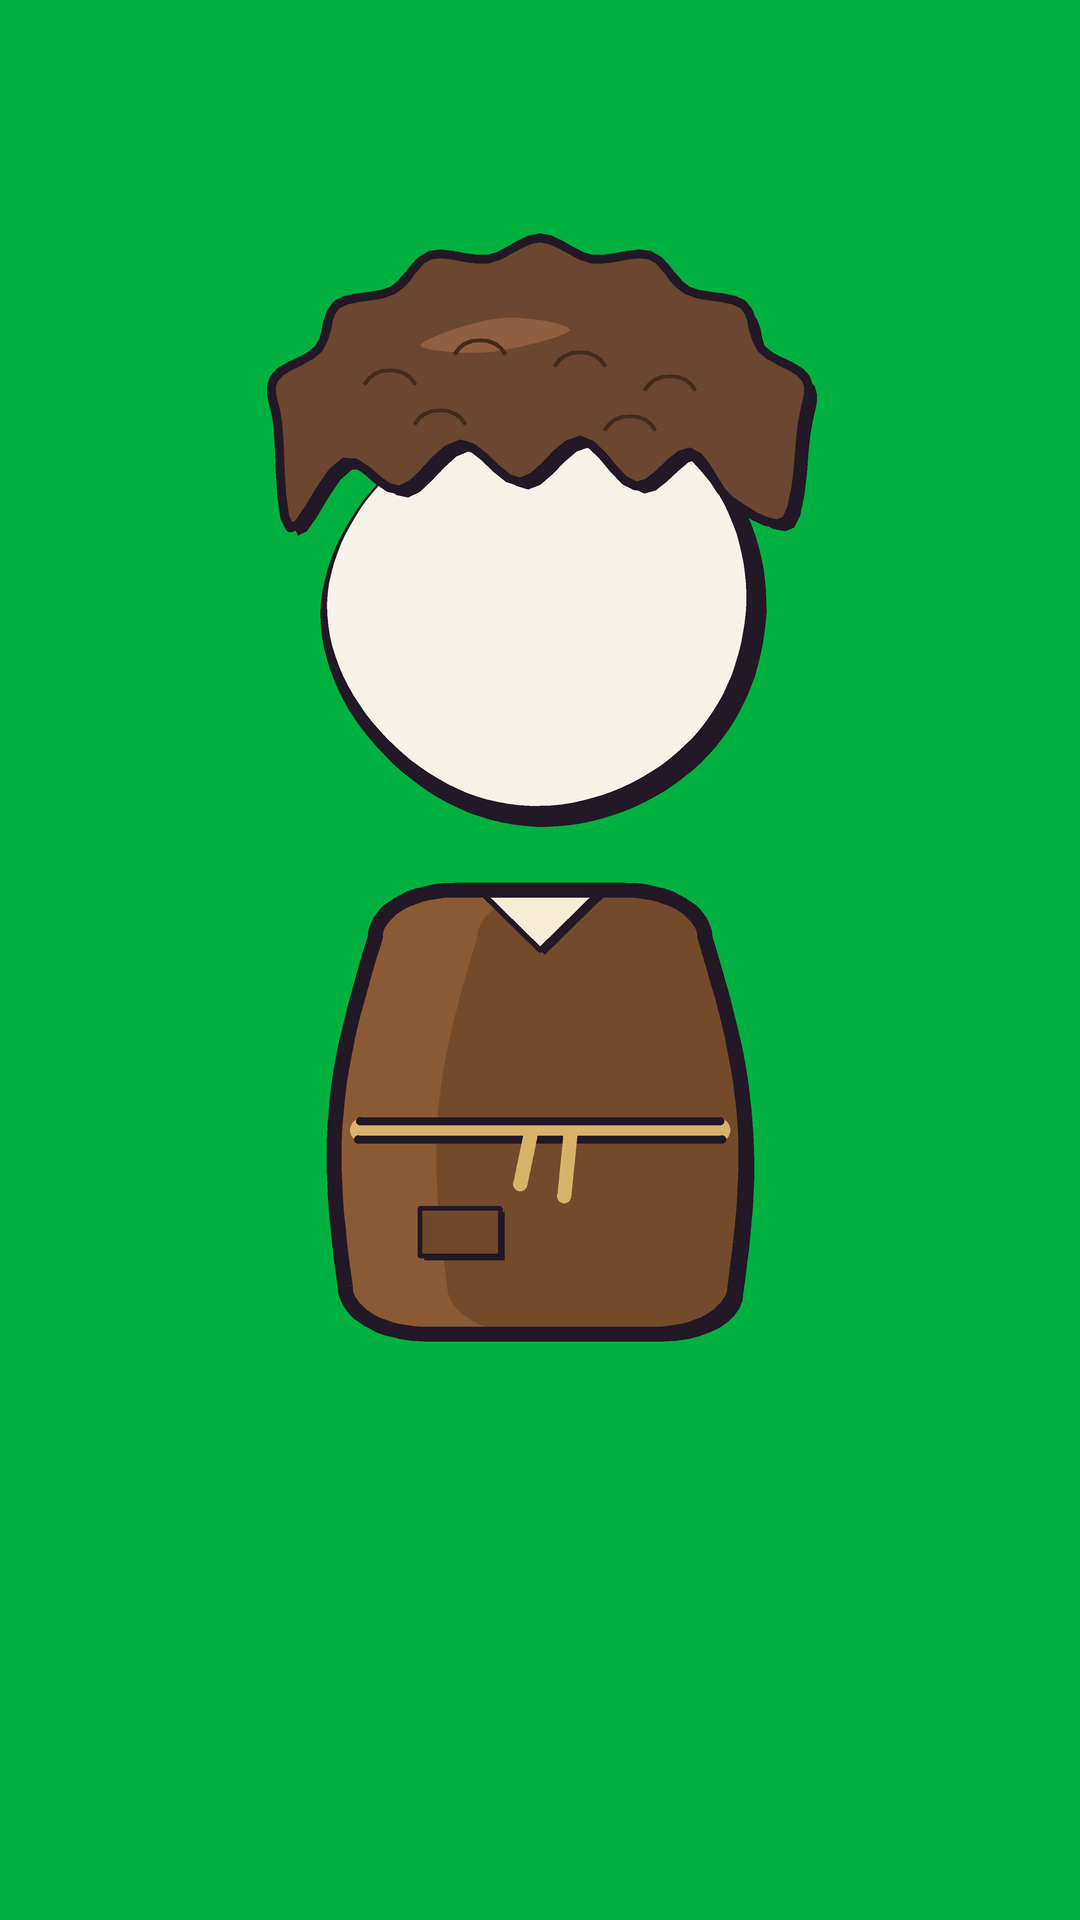
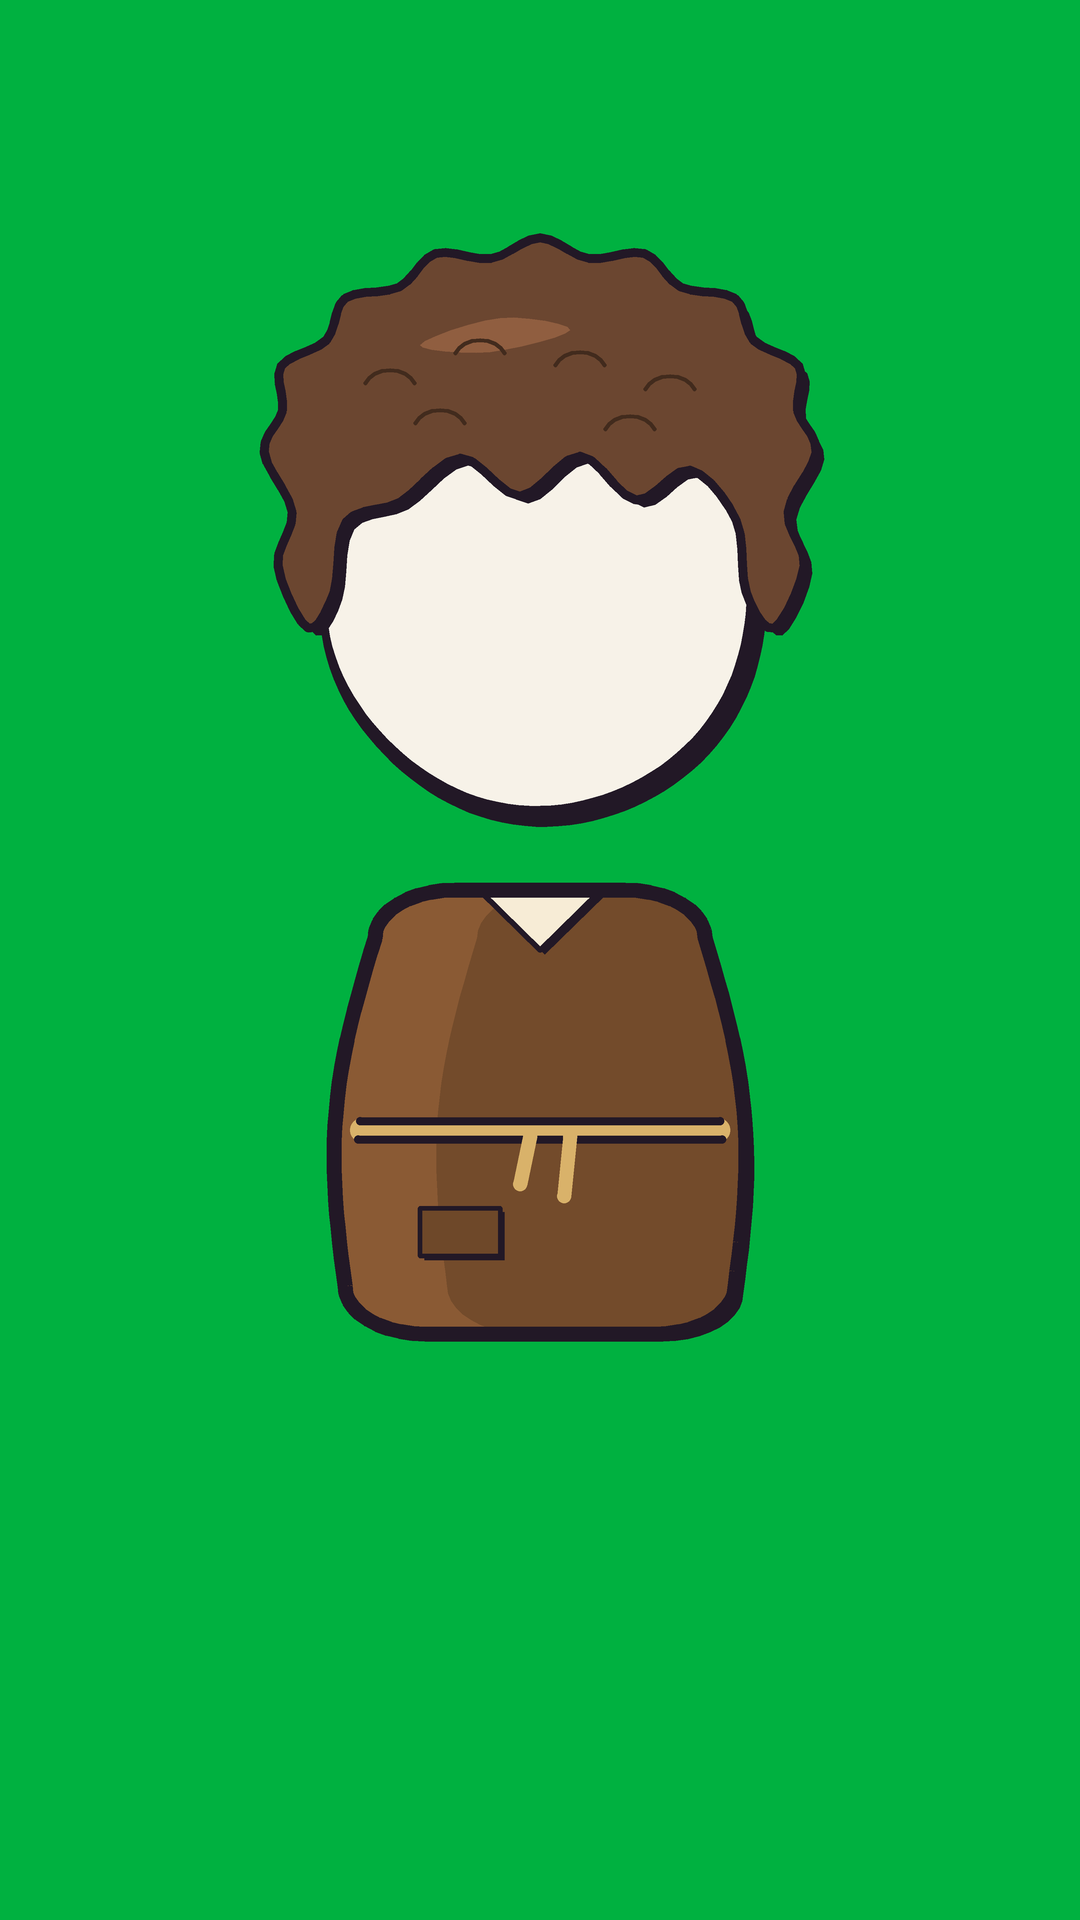
chars C10: curly hair flows down the sides and joins the head (user rule: hair connects to the head)

diff --git a/projects/the-puppet-master/tools/hair_library.py b/projects/the-puppet-master/tools/hair_library.py
@@ -125,9 +125,12 @@ def hair_curly(d, view='F'):
     c = hexc('#6b4630')
     if view == 'B':
         poly(d, cr(_curls(CX, 520, 262, 250, 0, 360, 22, .07)[:-1], 5), c); return
-    top = _curls(CX, 470, 268, 215, 192, 348, 14, .08)                     # bumpy crown from the left temple over to the right temple
-    fringe = [(CX + 246, 520), (CX + 190, 500), (CX + 150, 452), (CX + 96, 486), (CX + 40, 440), (CX - 20, 482), (CX - 80, 444), (CX - 140, 490), (CX - 196, 462), (CX - 250, 528)]
-    poly(d, cr(top + fringe, 5), c)
+    # user rule 2026-11-23: hair flows down the sides and JOINS the head (curly sideburns to the ear line), never a cap sitting on top
+    left = [(CX - 232, 628), (CX - 262, 566), (CX - 248, 512), (CX - 276, 452)]
+    top = _curls(CX, 470, 268, 215, 196, 344, 14, .08)                     # bumpy crown from the left temple over to the right temple
+    right = [(CX + 276, 452), (CX + 248, 512), (CX + 264, 566), (CX + 234, 628)]
+    fringe = [(CX + 206, 592), (CX + 196, 520), (CX + 150, 470), (CX + 96, 500), (CX + 40, 456), (CX - 20, 496), (CX - 80, 458), (CX - 140, 502), (CX - 194, 522), (CX - 206, 592)]
+    poly(d, cr(left + top + right + fringe, 5), c)
     hl(d, [(CX - 120, 345), (CX - 40, 318), (CX + 30, 330), (CX - 50, 352)], c)
     for x, y in [(CX - 150, 390), (CX - 60, 360), (CX + 40, 372), (CX + 130, 396), (CX - 100, 430), (CX + 90, 436)]:
         line(d, arc(x, y, 26, 20, 200, 340, 8), lw=4 * K, col=shade(c, .62))
